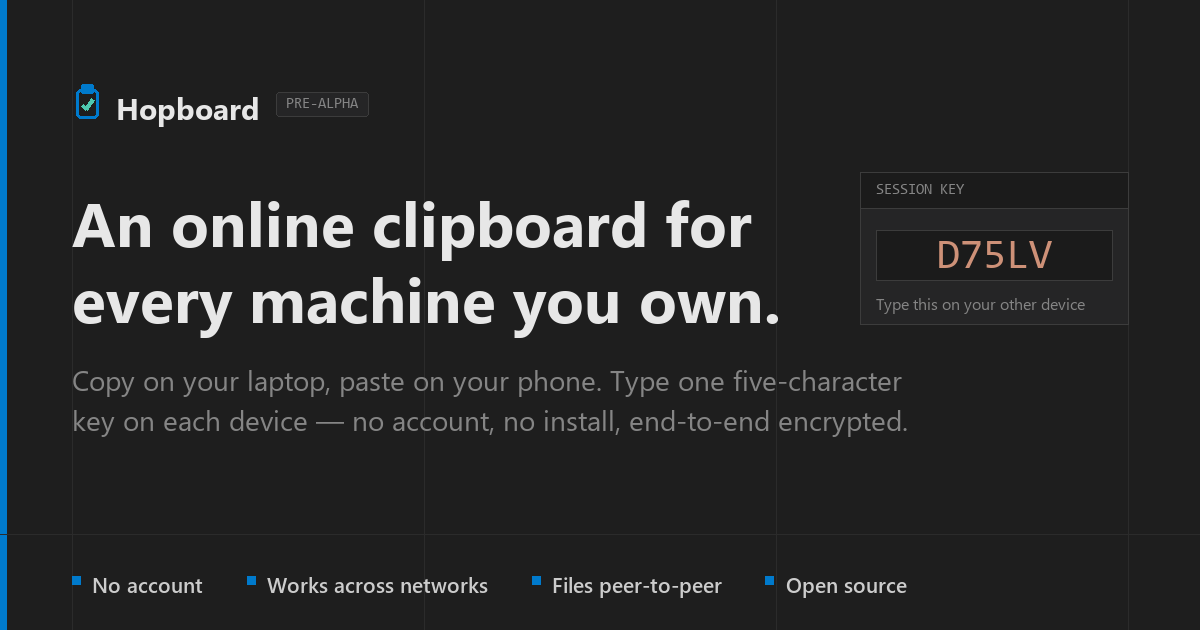
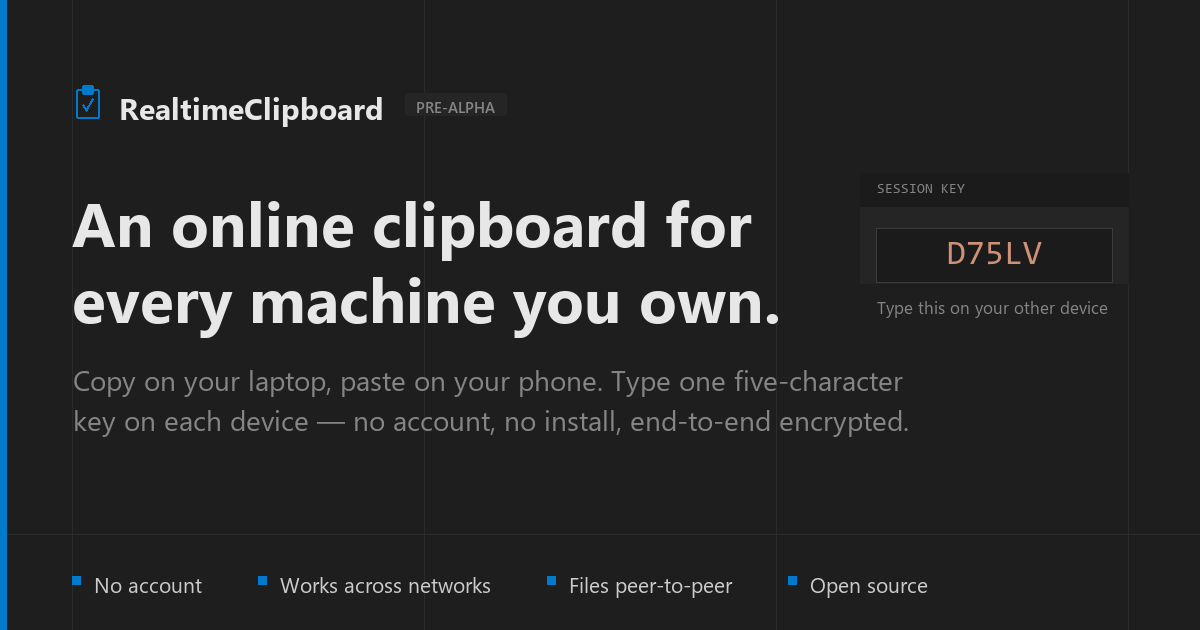
fix(social): regenerate the OG card, which still said Hopboard
The rename swept every string in the repo and could not touch the one place
the old name was most visible: the 1200x630 card every link preview renders.
index.html, download/, help/ and help/install/ all point og:image at it, so
the first thing anyone sharing the project saw was the old brand.

It went stale because it was a source-less binary -- nothing could regenerate
it and nothing could tell it was wrong. So this adds tools/build-og-card.py
and regenerates the card from it rather than editing pixels:

  npm run build:og     rewrite social/og-card.png
  npm run check:og     fail if the committed PNG is out of date

The generator reads REPO.NAME out of src/core/config.js instead of hardcoding
it, and every colour is a token from src/styles/tokens.css named next to its
value, so the card follows the app rather than drifting from it. The badge is
laid out relative to the end of the wordmark -- RealtimeClipboard is twice the
width of Hopboard, which is why a straight text swap was never going to work.

Layout is reproduced from the original, not re-designed: the 72px gutter and
352px column rules, the accent bar, the panel, and the feature row are all at
their original coordinates, and the four text landmarks measure identically to
the old card -- headline cap 43px at y204, wordmark 21px at y99, subtitle 18px
at y372, feature row 15px at y578.

Not wired into `verify`: it needs Python and Pillow, and making every commit
[…]

diff --git a/tools/build-og-card.py b/tools/build-og-card.py
@@ -1,0 +1,198 @@
+#!/usr/bin/env python3
+"""
+Regenerates social/og-card.png — the 1200x630 Open Graph card.
+
+    python tools/build-og-card.py            # writes social/og-card.png
+    python tools/build-og-card.py --check    # fails if the file is out of date
+
+WHY THIS FILE EXISTS
+--------------------
+The card used to be a PNG with no source. When the project was renamed the sweep
+updated every string in the repo and could not touch the one place the old name
+was actually most visible: the picture every link preview shows. It sat stale
+because nothing could tell it had gone stale.
+
+So the name is not written here. It is read out of src/core/config.js, the same
+REPO.NAME the app's own links are built from, and --check compares the rendered
+bytes against what is on disk. A rename now either regenerates this or fails.
+
+FONTS
+-----
+Segoe UI and Consolas, matching --ui-font and --mono in src/styles/tokens.css.
+Both ship with Windows, which is where this is run. On a machine without them
+the card would render in a substitute face and silently stop matching the site,
+so a missing font is a hard error rather than a fallback.
+
+The palette is likewise not invented here — every colour is a token from
+src/styles/tokens.css, listed next to its name below.
+"""
+
+import argparse
+import io
+import re
+import sys
+from pathlib import Path
+
+try:
+    from PIL import Image, ImageDraw, ImageFont
+except ImportError:
+    sys.exit("Pillow is required:  pip install Pillow")
+
+ROOT = Path(__file__).resolve().parent.parent
+OUT = ROOT / "social" / "og-card.png"
+CONFIG = ROOT / "src" / "core" / "config.js"
+
+W, H = 1200, 630
+
+# Straight from src/styles/tokens.css. Names kept identical so a token change
+# can be grepped to here.
+EDITOR = (0x1E, 0x1E, 0x1E)   # --editor   page background
+SIDE = (0x25, 0x25, 0x26)     # --side     raised panel
+BD = (0x2B, 0x2B, 0x2B)       # --bd       grid rules
+BD2 = (0x3C, 0x3C, 0x3C)      # --bd2      input border
+TEXT = (0xCC, 0xCC, 0xCC)     # --text
+DIM = (0x85, 0x85, 0x85)      # --dim at card scale
+BRIGHT = (0xE7, 0xE7, 0xE7)   # --bright   headline and wordmark
+BLUE = (0x00, 0x7A, 0xCC)     # --blue     accent bar, icon, bullets
+STR = (0xCE, 0x91, 0x78)      # --str      the share key, as in the app
+PANEL_HDR = (0x1B, 0x1B, 0x1B)
+
+# The four-column rule grid the original was built on: 72px gutter, 352px
+# columns. The layout hangs off these, so they are the only magic numbers.
+GUTTER = 72
+COLUMN = 352
+RULES = [GUTTER + COLUMN * i for i in range(4)]   # 72, 424, 776, 1128
+BASELINE_RULE = 534                                # the horizontal one
+ACCENT_W = 7                                       # left edge bar
+
+FONTS = Path("C:/Windows/Fonts")
+UI = FONTS / "segoeui.ttf"
+UI_BOLD = FONTS / "segoeuib.ttf"
+UI_SEMI = FONTS / "seguisb.ttf"
+MONO = FONTS / "consola.ttf"
+
+HEADLINE = ["An online clipboard for", "every machine you own."]
+SUBTITLE = [
+    "Copy on your laptop, paste on your phone. Type one five-character",
+    "key on each device — no account, no install, end-to-end encrypted.",
+]
+FEATURES = ["No account", "Works across networks", "Files peer-to-peer", "Open source"]
+BADGE = "PRE-ALPHA"
+SAMPLE_KEY = "D75LV"   # the throwaway key the tests use; never a real one
+
+
+def product_name() -> str:
+    """REPO.NAME out of config.js — the card follows the app, not a constant here."""
+    src = CONFIG.read_text(encoding="utf-8")
+    m = re.search(r"\bNAME:\s*[\"']([^\"']+)[\"']", src)
+    if not m:
+        sys.exit(f"could not find REPO.NAME in {CONFIG}")
+    return m.group(1)
+
+
+def font(path: Path, size: int) -> ImageFont.FreeTypeFont:
+    if not path.exists():
+        sys.exit(f"missing font: {path}\nThis card must render in Segoe UI/Consolas "
+                 f"to match the site; a substitute face would drift silently.")
+    return ImageFont.truetype(str(path), size)
+
+
+def clipboard_icon(d: ImageDraw.ImageDraw, x: int, y: int, w: int, h: int) -> None:
+    """The app icon, redrawn rather than scaled — icons/icon.svg is a stroked
+    glyph and downsampling a 512px raster of it to 23px turns the strokes to mud."""
+    s = max(2, round(w / 11))
+    d.rounded_rectangle([x, y + h * 0.12, x + w, y + h], radius=s, outline=BLUE, width=s)
+    tab_w, tab_h = w * 0.52, h * 0.17
+    d.rounded_rectangle(
+        [x + (w - tab_w) / 2, y, x + (w + tab_w) / 2, y + tab_h * 1.6],
+        radius=s * 0.8, fill=BLUE,
+    )
+    d.line([(x + w * 0.27, y + h * 0.60), (x + w * 0.44, y + h * 0.76),
+            (x + w * 0.75, y + h * 0.40)], fill=BLUE, width=s, joint="curve")
+
+
+def render() -> Image.Image:
+    name = product_name()
+    im = Image.new("RGB", (W, H), EDITOR)
+    d = ImageDraw.Draw(im)
+
+    for x in RULES:
+        d.line([(x, 0), (x, H)], fill=BD, width=1)
+    d.line([(0, BASELINE_RULE), (W, BASELINE_RULE)], fill=BD, width=1)
+    d.rectangle([0, 0, ACCENT_W - 1, H], fill=BLUE)
+
+    # ---- wordmark row -----------------------------------------------------
+    clipboard_icon(d, GUTTER + 4, 85, 23, 33)
+    f_mark = font(UI_BOLD, 30)
+    mark_x = GUTTER + 47
+    d.text((mark_x, 87), name, font=f_mark, fill=BRIGHT)
+
+    # The badge trails the wordmark instead of sitting at a fixed x — the whole
+    # reason the old card could not simply have its name swapped in place.
+    f_badge = font(UI_SEMI, 15)
+    bx = mark_x + round(d.textlength(name, font=f_mark)) + 21
+    bw = round(d.textlength(BADGE, font=f_badge)) + 22
+    d.rounded_rectangle([bx, 93, bx + bw, 115], radius=3, fill=SIDE)
+    d.text((bx + 11, 96), BADGE, font=f_badge, fill=DIM)
+
+    # ---- headline and subtitle -------------------------------------------
+    f_head = font(UI_BOLD, 62)
+    for i, line in enumerate(HEADLINE):
+        d.text((GUTTER, 180 + i * 76), line, font=f_head, fill=BRIGHT)
+
+    f_sub = font(UI, 28)
+    for i, line in enumerate(SUBTITLE):
+        d.text((GUTTER + 1, 360 + i * 40), line, font=f_sub, fill=DIM)
+
+    # ---- session key panel ------------------------------------------------
+    px0, px1 = 860, 1128
+    d.rectangle([px0, 173, px1, 207], fill=PANEL_HDR)
+    d.rectangle([px0, 207, px1, 283], fill=SIDE)
+    f_label = font(MONO, 14)
+    d.text((877, 182), "SESSION KEY", font=f_label, fill=DIM)
+
+    d.rectangle([876, 228, 1112, 282], fill=PANEL_HDR, outline=BD2, width=1)
+    f_key = font(MONO, 34)
+    kw = d.textlength(SAMPLE_KEY, font=f_key)
+    d.text((876 + (236 - kw) / 2, 238), SAMPLE_KEY, font=f_key, fill=STR)
+
+    d.text((877, 295), "Type this on your other device", font=font(UI, 17), fill=DIM)
+
+    # ---- feature row ------------------------------------------------------
+    f_feat = font(UI, 21)
+    x = GUTTER
+    for label in FEATURES:
+        d.rectangle([x, 576, x + 8, 584], fill=BLUE)
+        d.text((x + 22, 570), label, font=f_feat, fill=TEXT)
+        x += 22 + round(d.textlength(label, font=f_feat)) + 56
+    return im
+
+
+def main() -> int:
+    ap = argparse.ArgumentParser()
+    ap.add_argument("--check", action="store_true",
+                    help="exit non-zero if social/og-card.png is out of date")
+    args = ap.parse_args()
+
+    buf = io.BytesIO()
+    render().save(buf, "PNG", optimize=True)
+    fresh = buf.getvalue()
+
+    if args.check:
+        if not OUT.exists():
+            print(f"{OUT.relative_to(ROOT)} is missing — run tools/build-og-card.py")
+            return 1
+        if OUT.read_bytes() != fresh:
+            print(f"{OUT.relative_to(ROOT)} is out of date — run tools/build-og-card.py")
+            return 1
+        print(f"{OUT.relative_to(ROOT)} is up to date ({product_name()})")
+        return 0
+
+    OUT.parent.mkdir(parents=True, exist_ok=True)
+    OUT.write_bytes(fresh)
+    print(f"wrote {OUT.relative_to(ROOT)}  {W}x{H}  ({product_name()})")
+    return 0
+
+
+if __name__ == "__main__":
+    raise SystemExit(main())

diff --git a/docs/SEO.md b/docs/SEO.md
@@ -819,6 +819,15 @@ the above cost.
    `social/og-card.png`. It is 1200×630, comfortably over GitHub's 640×320
    minimum, and there is no API for this — it has to be done in the UI. Until it
    is, the repo shares as a grey text box.
+
+   **Re-upload it whenever the card is regenerated.** The upload is a copy held
+   by GitHub, not a reference to the file in the repo, so it does not follow a
+   rebuild and nothing in this repo can tell it has gone stale. The card itself
+   is generated by `npm run build:og` from `tools/build-og-card.py`, which reads
+   the product name out of `src/core/config.js`; `npm run check:og` fails if the
+   committed PNG no longer matches. It was a source-less binary until the
+   Hopboard → RealtimeClipboard rename shipped a card still showing the old
+   name to every link preview.
 7. Link `/RealtimeClipboard/` from the portfolio page and a blog post on the user site.
    Same-host internal links, currently forgone entirely.
 8. Submit to **nuzulul/awesome-webrtc** (File Transfer category) and **hemanth/awesome-pwa**.
